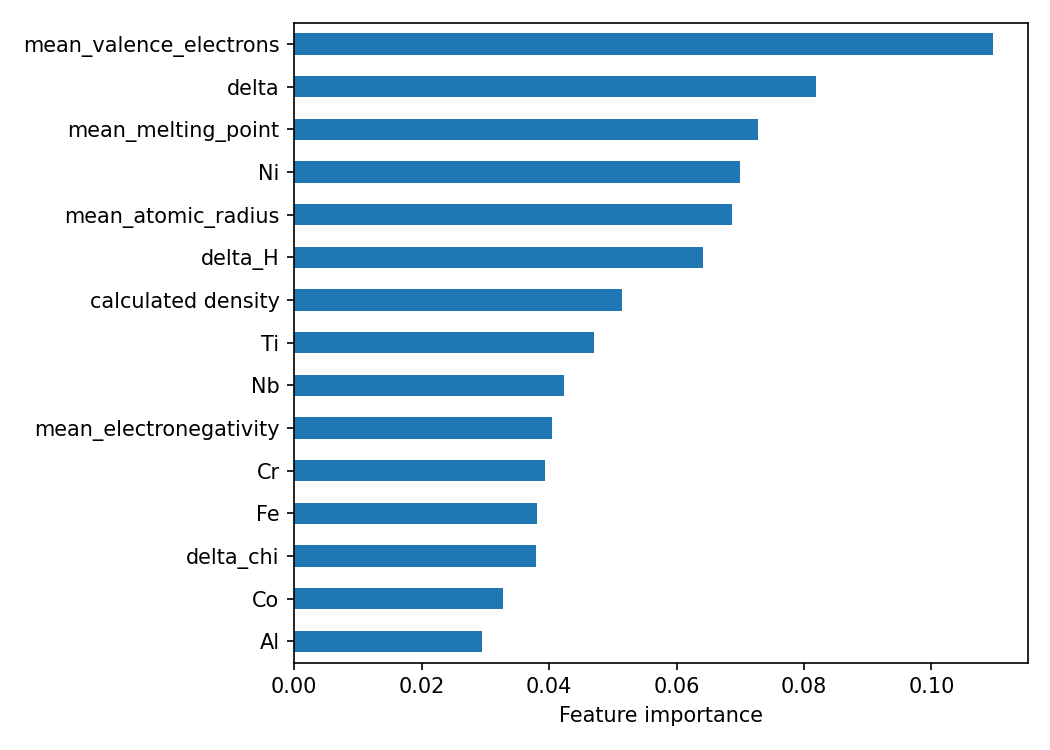
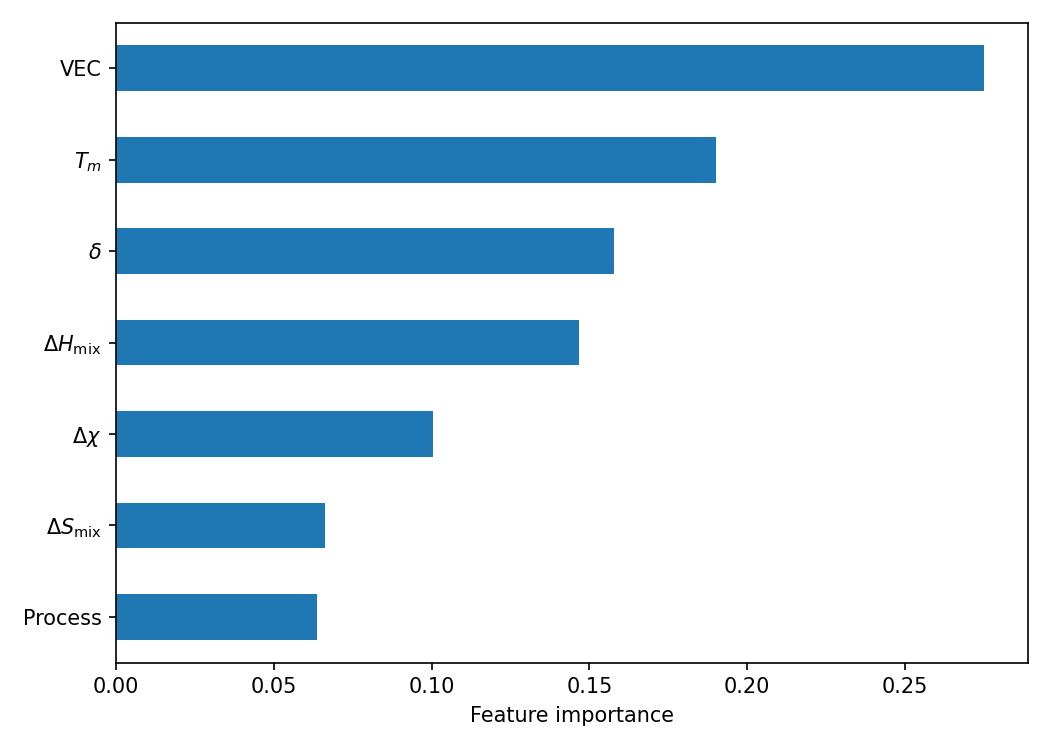
Update feature importance figure and README
Feature importance now uses the 11 model inputs with symbol labels and a summed Process bar. README describes the figure and corrects the research script descriptions.

Claude-Session: https://claude.ai/code/session_011oPFarVV3RxbvxB8jjmwBo

diff --git a/research/modelling.py b/research/modelling.py
@@ -92,12 +92,29 @@ cols = ["row_acc", "row_f1", "alloy_acc", "alloy_f1", "rec_BCC", "rec_FCC", "rec
 print(res.groupby("model")[cols].agg(["mean", "std"]).round(3).to_string())
 print(pd.DataFrame(final_cm, index=labels, columns=labels))
 
-final_model = clone(models["rf_balanced"]).fit(feature, target)
-importance = pd.Series(final_model.feature_importances_, index=feature.columns)
-importance = importance.sort_values(ascending=False)
-print(importance.head(15))
+physics = ["delta", "delta_H", "delta_S", "mean_valence_electrons", "mean_melting_point", "delta_chi"]
+proc = [c for c in feature.columns if c.startswith("proc_")]
+model_cols = physics + proc
 
-top = importance.head(15).sort_values()
+final_model = clone(models["rf_balanced"]).fit(feature[model_cols], target)
+importance = pd.Series(final_model.feature_importances_, index=model_cols)
+
+grouped = importance[physics].copy()
+grouped["Process"] = importance[proc].sum()
+grouped = grouped.sort_values(ascending=False)
+print(grouped)
+
+symbols = {
+    "delta": r"$\delta$",
+    "delta_H": r"$\Delta H_{\mathrm{mix}}$",
+    "delta_S": r"$\Delta S_{\mathrm{mix}}$",
+    "delta_chi": r"$\Delta\chi$",
+    "mean_valence_electrons": "VEC",
+    "mean_melting_point": r"$T_{m}$",
+}
+
+top = grouped.sort_values()
+top.index = [symbols.get(c, c) for c in top.index]
 plt.figure(figsize=(7, 5))
 top.plot.barh()
 plt.xlabel("Feature importance")

diff --git a/README.md b/README.md
@@ -63,6 +63,8 @@ Adding mixing enthalpy left the random forest unchanged (alloy macro F1 0.754 to
 
 ![Feature importance](research/feature_importance.png)
 
+Impurity-based feature importance of the 3-class random forest, trained on the 11 model inputs. The five processing flags are summed into one bar (Process). VEC contributes the most (about 0.28), followed by mean melting point (about 0.19), size mismatch (about 0.16) and mixing enthalpy (about 0.15). Processing as a whole contributes about 0.06. These values come from one model fitted on all data and are less reliable than the permutation importances above, which are computed on held-out folds.
+
 ## Web app
 
 `app.py` is a Streamlit app. Enter a composition and a processing route to get a probability for each of the five phases, the three most likely phase combinations, and the six computed descriptors. It also warns when the composition is in the training data (probabilities are then optimistic), when elements are rare in the data, and that Laves and B2 predictions are the least reliable.
@@ -97,8 +99,8 @@ cleaned_data.csv --> train_final.py --> model.joblib --> app.py
 | `research/data.py` | Cleans column names, drops unused columns, removes rows with missing microstructure or processing method |
 | `research/feature.py` | Parses formulas into element fractions and computes composition-based descriptors, including mixing enthalpy |
 | `research/label.py` | Splits the microstructure string into binary phase labels |
-| `research/modelling.py` | 3-class baseline with grouped cross-validation and feature importance |
-| `research/modelling_multilabel.py` | Multi-label experiments: per-phase average precision, feature-set comparison, phase combinations |
+| `research/modelling.py` | 3-class baseline with grouped cross-validation, and the feature importance figure for the 11 model inputs |
+| `research/modelling_multilabel.py` | Multi-label evaluation: defines the per-phase average precision evaluation and runs the phase-combination comparison (physics only vs physics + processing) |
 | `featurize.py` | Computes the same descriptors for a single composition typed into the app |
 | `train_final.py` | Trains the five phase models and the combination model on all data and writes `model.joblib` |
 | `app.py` | Streamlit app |
